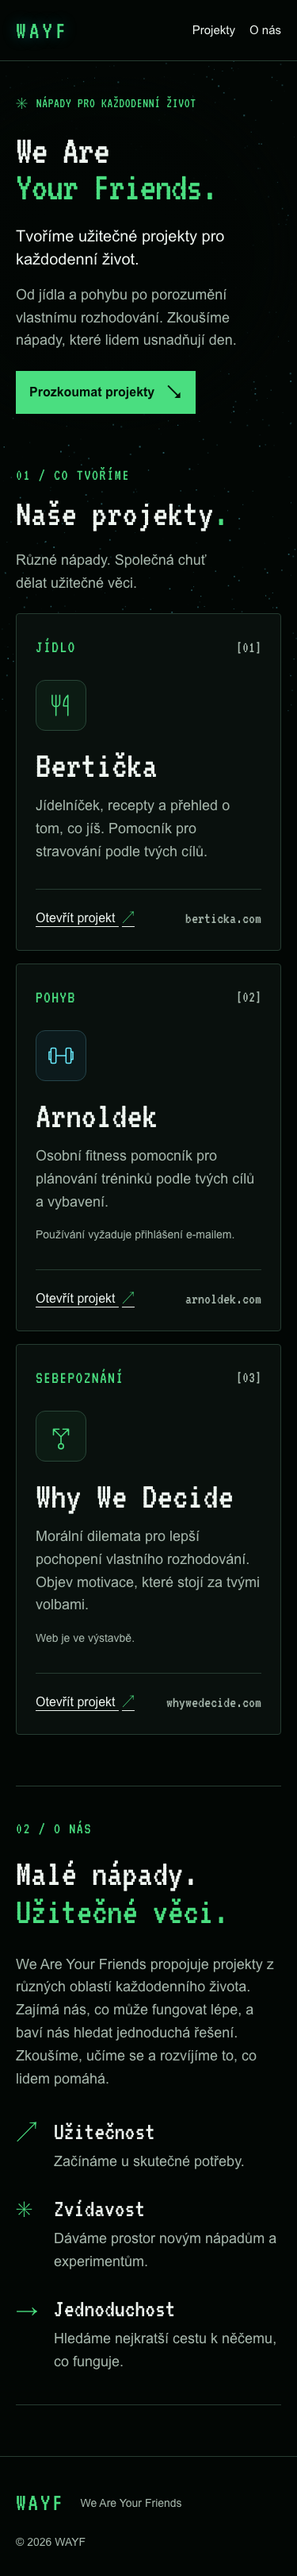
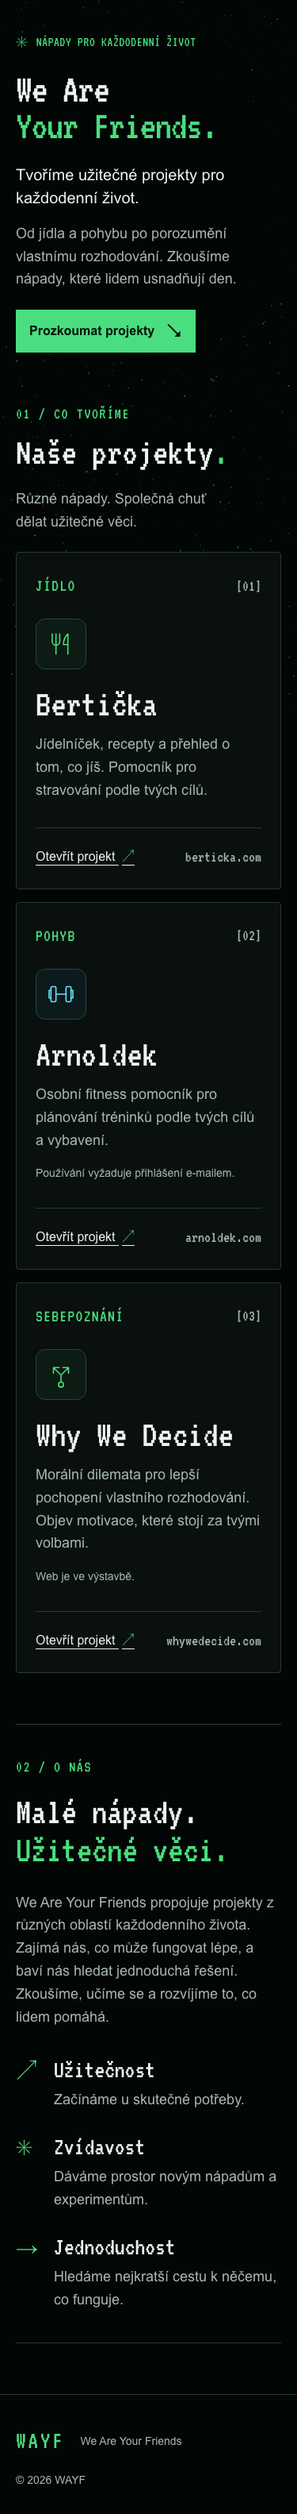
Remove the homepage header and navigation (#4)

diff --git a/src/styles/global.css b/src/styles/global.css
@@ -12,7 +12,7 @@
 }
 
 * { box-sizing: border-box; }
-html { scroll-padding-top: 8rem; }
+html { scroll-padding-top: 24px; }
 body {
   margin: 0;
   min-width: 280px;
@@ -48,54 +48,9 @@ svg { display: block; }
   text-transform: uppercase;
 }
 .title-period { color: var(--green); }
-.skip-link {
-  position: fixed;
-  top: 12px;
-  left: 24px;
-  z-index: 100;
-  padding: 10px 18px;
-  color: #020604;
-  background: var(--green);
-  transform: translateY(-200%);
-}
-.skip-link:focus { transform: translateY(0); }
-
 /* Decorations stay behind every interactive and content layer. */
 .aliens-star-canvas { position: fixed; inset: 0; z-index: -2; pointer-events: none; opacity: 0.42; }
 .aliens-star-canvas canvas { display: block; }
-/* Navigation works without a client-side menu. */
-.aliens-nav {
-  position: sticky;
-  top: 0;
-  z-index: 50;
-  background: rgba(2, 6, 4, 0.94);
-  backdrop-filter: blur(16px);
-  border-bottom: 1px solid var(--border);
-}
-.aliens-nav-inner {
-  width: min(1120px, calc(100% - 48px));
-  min-height: 88px;
-  margin-inline: auto;
-  display: flex;
-  flex-wrap: wrap;
-  justify-content: space-between;
-  align-items: center;
-  gap: 12px 32px;
-  padding-block: 18px;
-}
-.aliens-nav-logo {
-  color: var(--green);
-  font-family: var(--retro);
-  font-size: 2.5rem;
-  line-height: 1;
-  letter-spacing: 0.12em;
-  text-decoration: none;
-  text-shadow: 0 0 18px rgba(34, 211, 238, 0.35);
-}
-.nav-links { display: flex; flex-wrap: wrap; align-items: center; gap: 12px 32px; }
-.nav-links a { font-size: 1rem; text-underline-offset: 6px; text-decoration-color: transparent; }
-.nav-links a:hover { color: var(--green); text-decoration-color: currentColor; }
-.nav-links a span { color: var(--green); margin-left: 4px; }
 
 /* Hero */
 .hero { display: grid; grid-template-columns: 1.6fr 1fr; align-items: center; padding-top: 80px; }
@@ -201,14 +156,7 @@ svg { display: block; }
 }
 
 @media (max-width: 600px) {
-  html { scroll-padding-top: 24px; }
-  .aliens-nav { position: relative; }
-  .container, .aliens-nav-inner { width: calc(100% - 40px); }
-  .aliens-nav-inner { min-height: 76px; gap: 12px 20px; padding-block: 16px; }
-  .aliens-nav-logo { font-size: 2rem; }
-  .nav-links { gap: 10px 18px; }
-  .nav-links a { font-size: 0.9375rem; }
-  .nav-links a span { display: none; }
+  .container { width: calc(100% - 40px); }
   .hero { padding-top: 40px; }
   .hero .eyebrow { font-size: 1.0625rem; letter-spacing: 0.04em; }
   .hero h1 { font-size: clamp(3rem, 13.9vw, 5rem); margin-block: 24px; }

diff --git a/docs/web-v1.md b/docs/web-v1.md
@@ -21,7 +21,7 @@ v první implementaci; čeština ani konečný výběr portfolia dosud nejsou Pa
 
 Repo již obsahuje Astro, TypeScript, CSS, statický build a konfiguraci nasazení
 na Cloudflare Workers Static Assets. Použít existující komponenty `Layout`,
-`Starfield`, `Header` a `Footer`. Homepage `src/pages/index.astro` je zatím prázdná.
+`Starfield` a `Footer`. Homepage je v `src/pages/index.astro`.
 Vývojové příkazy a proces nasazení popisuje [README](../README.md).
 
 Rozsah v1: homepage, metadata, favicon a obrázek pro sdílení. Zachovat statický
@@ -30,12 +30,11 @@ verze nejsou součástí tohoto zadání. Pro kontakt použít odkaz na e-mail.
 
 ## Struktura stránky a návrh textů
 
-### 1. Navigace
+### 1. Začátek stránky
 
-- Vlevo text WAYF s odkazem na `/`. Finální vektorové logo je napravo v úvodu místo původní kruhové grafiky.
-- Vpravo odkazy `Projekty`, `O nás`, `Kontakt` na `#projekty`, `#o-nas`, `#kontakt`.
-- Na mobilu odkazy zalomit nebo zjednodušit rozložení tak, aby zůstaly dostupné bez menu vyžadujícího JavaScript.
-- U pevné navigace nastavit odsazení kotev, aby nezakrývala nadpis cílové sekce.
+Stránka začíná rovnou úvodem, bez horní hlavičky a navigační lišty.
+Logo zůstává vpravo v úvodu, odkazy na projekty a kontakt jsou přímo v obsahu.
+Kotvy mají malé odsazení od horního okraje; není potřeba prostor pro pevnou navigaci.
 
 ### 2. Úvod
 
@@ -112,7 +111,7 @@ Napiš nám.
 
 Zobrazit skutečnou veřejnou e-mailovou adresu jako odkaz `mailto:`. Adresa zatím
 není zadaná; nevymýšlet `hello@wayf.cz` ani jinou schránku. Do implementace připravit
-jedno místo pro její doplnění. Bez adresy kontaktní obsah a navigační odkaz skrýt;
+jedno místo pro její doplnění. Bez adresy kontaktní obsah a sekundární odkaz v úvodu skrýt;
 pro kompletní v1 je doplnění a ověření kontaktu podmínkou spuštění.
 
 Patička zachová WAYF, plný název značky a dynamický rok. Doplnit potvrzenou veřejnou
@@ -134,7 +133,7 @@ akcenty a retro typografie. Styl rozvinout do obsahových sekcí.
 ## Technické požadavky
 
 - Hlavní obsah je ve statickém HTML a všechny odkazy fungují i bez JavaScriptu.
-- Použít jediný H1, logické H2/H3, sémantické sekce, viditelný focus a odkaz pro přeskočení navigace.
+- Použít jediný H1, logické H2/H3, sémantické sekce a viditelný focus. Hlavní obsah začíná bez předřazené navigace.
 - Dekorace mají být skryté před čtečkou obrazovky. Obsahové obrázky mají popis a známé rozměry.
 - Zachovat funkčnost při omezení pohybu, nedostupnosti externího fontu a zvětšení textu.
 - Seznam projektů držet na jednom místě jako jednoduchá data s názvem, kategorií, popisem a URL; nepřidávat CMS ani obecný systém konfigurace.
@@ -149,7 +148,7 @@ Implementace je hotová, když:
 
 - Homepage obsahuje všechny dohodnuté sekce, finální texty a potvrzené projekty bez placeholderů.
 - Každý projektový odkaz otevře odpovídající veřejný web a kontakt používá správnou adresu.
-- Na šířkách 375, 768 a 1440 px nic nepřetéká, navigace nepřekrývá obsah a karty se správně skládají.
+- Na šířkách 375, 768 a 1440 px nic nepřetéká a karty se správně skládají.
 - Stránku lze projít klávesnicí, focus je viditelný a obsah funguje bez JavaScriptu i při omezení pohybu.
 - Metadata a obrázek pro sdílení odpovídají finálnímu obsahu a načítají se bez chyby.
 - Projdou existující `npm run check`, `npm run build`, `npm run deploy:check` a `npm run smoke` proti běžícímu `npm run preview`.

diff --git a/README.md b/README.md
@@ -2,7 +2,7 @@
 
 Statický web v **Astro + TypeScript + CSS**, nasazovaný na **Cloudflare Workers
 Static Assets** přes GitHub Actions. Vzhled vychází z `pvachek.cz/public/aliens/`:
-hvězdné pozadí, horní navigace a patička. Homepage představuje značku
+hvězdné pozadí a patička. Homepage představuje značku
 We Are Your Friends, projekty Bertička, Arnoldek a Why We Decide a hodnoty, které je spojují.
 
 Zadání obsahu a dokončení homepage: [Web v1](docs/web-v1.md).
@@ -36,7 +36,7 @@ Smoke můžeš nasměrovat na jinou adresu: `npm run smoke -- https://example.wo
 ## Struktura
 
 - `src/layouts/Layout.astro` — společná HTML kostra a metadata.
-- `src/components/` — pozadí, navigace, projektová karta a patička.
+- `src/components/` — pozadí, projektová karta a patička.
 - `src/data/projects.ts` — pořadí, texty a odkazy projektů.
 - `src/data/contact.ts` — potvrzený veřejný e-mail a identita provozovatele.
 - `src/pages/index.astro` — homepage; další stránky přidávej do `src/pages/`.
@@ -49,7 +49,7 @@ serverový Worker skript nejsou potřeba. Font VT323 se načítá z Google Fonts
 bez připojení se použije systémový monospace. Omezení pohybu zastaví animace.
 
 Kontakt doplň do `src/data/contact.ts` až po potvrzení veřejné adresy a identity
-provozovatele. Prázdný e-mail skryje celou kontaktní sekci, odkaz v navigaci
+provozovatele. Prázdný e-mail skryje celou kontaktní sekci
 i sekundární akci v úvodu. Prázdná identita se nevypisuje v patičce.
 Pro dokončení veřejné v1 jsou oba údaje podle zadání potřeba.
 Při změně portfolia aktualizuj také popis v layoutu, úvodní text a obrázek pro sdílení.

diff --git a/docs/homepage-v1-status.md b/docs/homepage-v1-status.md
@@ -11,8 +11,7 @@ a [mobil 375 px](previews/mobile.png). Kontakt v těchto náhledech čeká na do
 
 - Český úvod, tři projektové karty (Bertička, Arnoldek, Why We Decide), sekce O nás a připravený kontakt.
 - Finální vektorové logo, původní hvězdy, nové responzivní rozložení.
-- Navigace je na mobilu součástí běžného toku stránky, aby při zvětšení textu
-  nezakrývala obsah. Od šířky 601 px zůstává přichycená nahoře.
+- Stránka začíná rovnou úvodem bez horní hlavičky a navigace. Logo je vpravo v úvodu.
 - Projekty jsou v `src/data/projects.ts`; kontakt a provozovatel
   v `src/data/contact.ts`. Prázdný kontakt se nevykresluje ani neodkazuje.
 - Metadata, canonical, SVG favicon a skutečný PNG náhled 1200 × 630 px.
@@ -35,7 +34,7 @@ Zpětné odkazy v jednotlivých projektech nebyly měněny.
   odpovídají buildu a mají správné typy; neexistující cesta vrací 404.
 - Chromium: šířky 375, 768 a 1440 px, standardní zobrazení, vypnutý JavaScript,
   zablokovaný externí font a zvětšení textu na 200 %.
-- Klávesnice: viditelný focus, přeskočení navigace a kotvy mimo hlavičku.
+- Klávesnice: viditelný focus a funkční odkazy na sekce.
 - Omezení pohybu: hvězdy bez průběžného překreslování.
 
 ## Navazující úkoly a ověření nasazení
